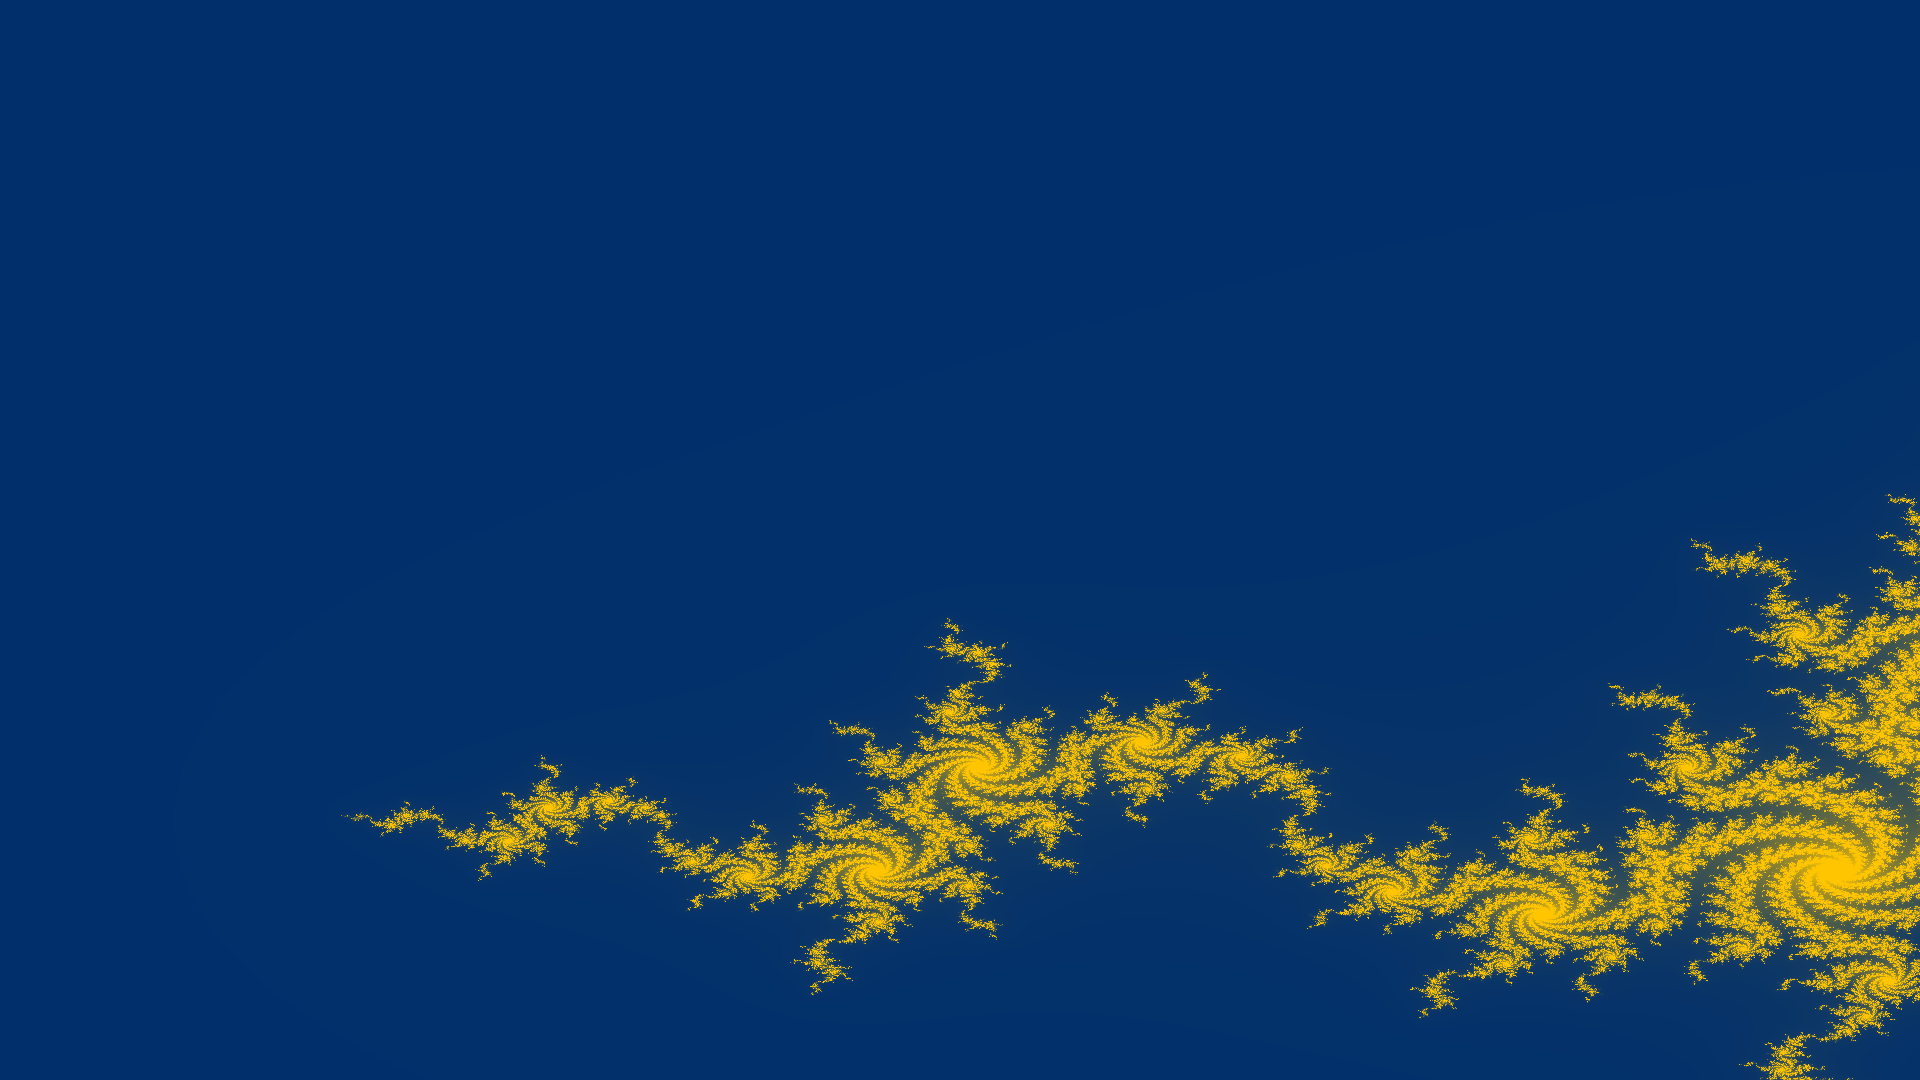
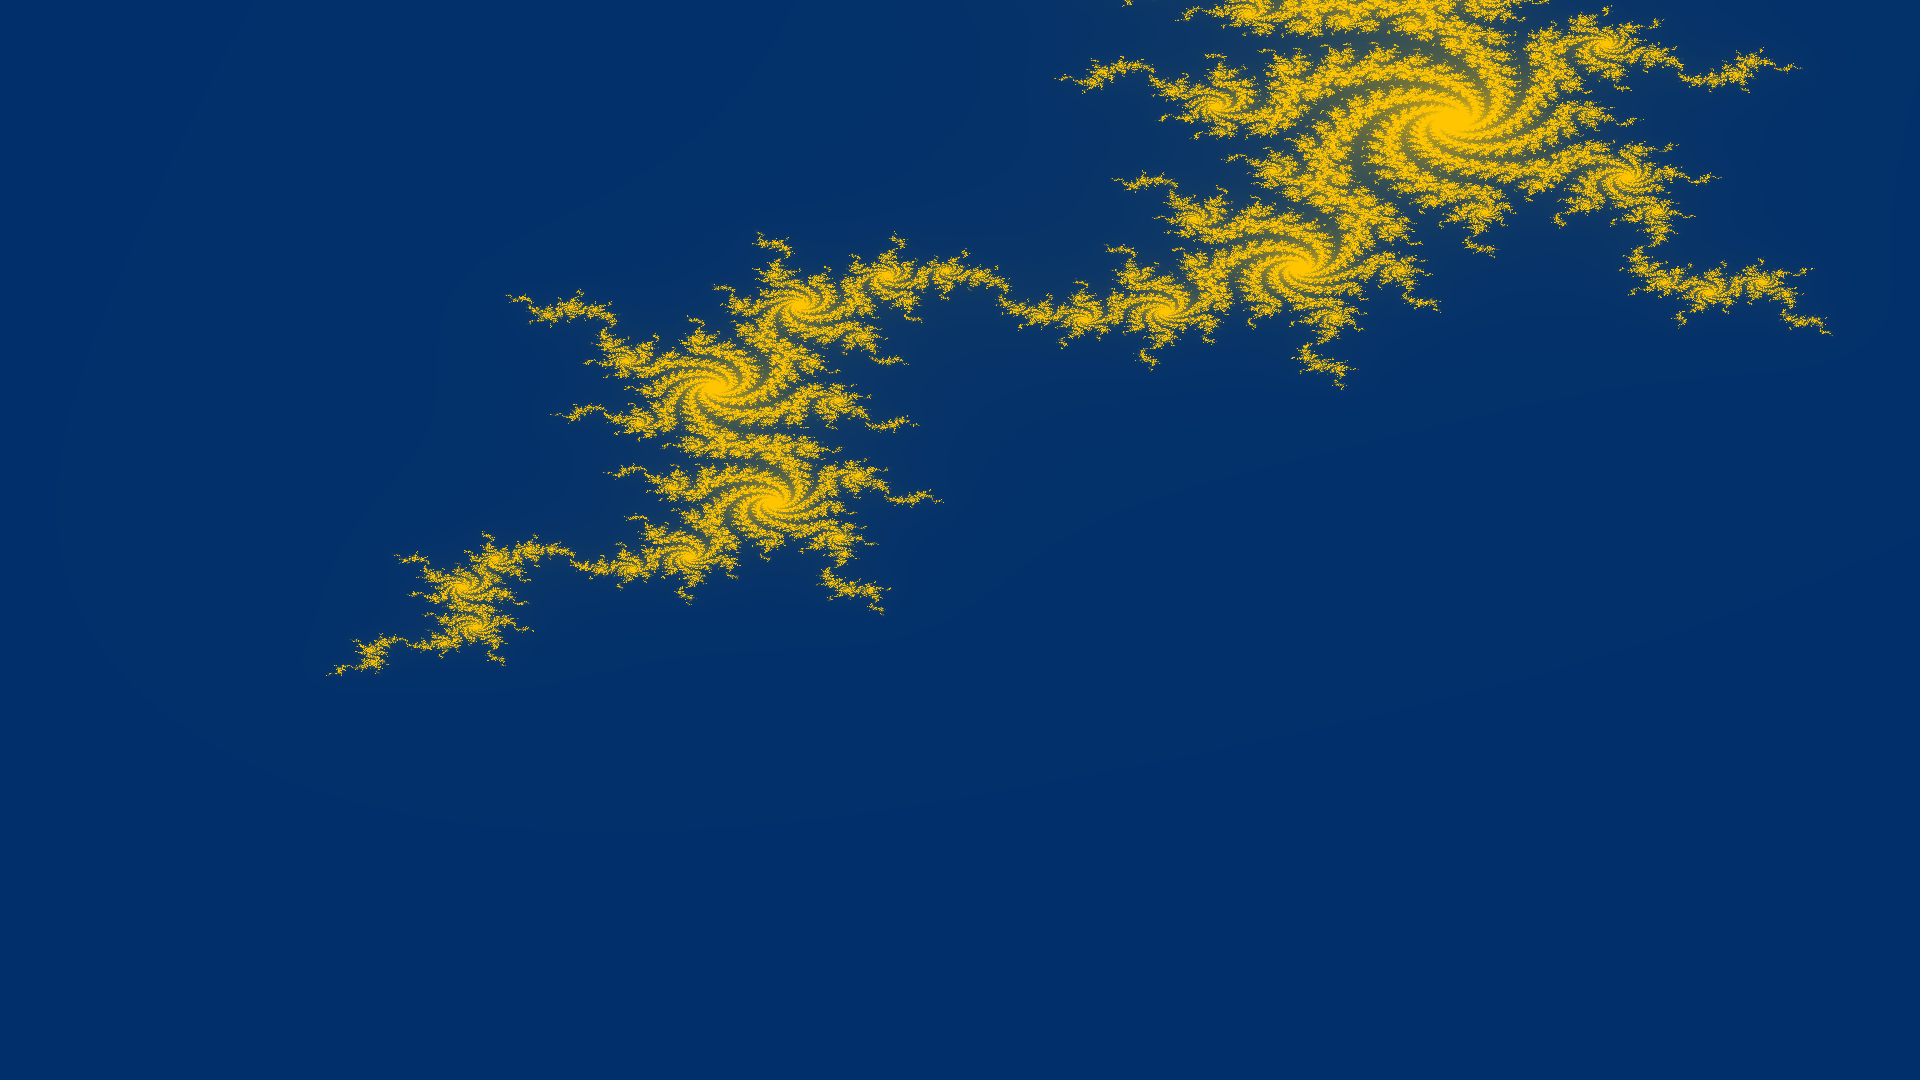
Implemented rotation.

diff --git a/src/functions.cpp b/src/functions.cpp
@@ -11,25 +11,35 @@
 #include "JuliaSet/functions.h"
 
 // Libraries being used
+#include <cmath>
+
+// Libraries being used
 using namespace std;
 using namespace cimg_library;
 
 /**
  * Returns the complex number at the given pixel on the image
  *
- * @param x      the x coord of the pixel
- * @param y      the y coord of the pixel
- * @param imgx   the width of the image
- * @param imgy   the height of the image
- * @param zoom   the zoom scale
- * @param offset the complex offset
+ * @param x    the x coord of the pixel
+ * @param y    the y coord of the pixel
+ * @param imgx the width of the image
+ * @param imgy the height of the image
+ * @param zoom the zoom scale
+ * @param off  the complex offset
+ * @param rot  the degrees of rotation of the image
  *
  * @return the complex number at the given pixel on the image
  */
-std::complex<double> getComplex(const double& x, const double& y, const double& imgx, const double& imgy, const double& zoom, const std::complex<double>& offset)
+std::complex<double> getComplex(
+	const double& x, 
+	const double& y, 
+	const double& imgx, 
+	const double& imgy, 
+	const double& zoom, 
+	const complex<double>& off, 
+	const double& rot)
 {
-	// Return complex value
-	return (SCALE * complex<double>(x / imgx, y / imgy) - SHIFT) / zoom + offset;
+	return (SCALE * complex<double>(x / imgx, y / imgy) - SHIFT) * polar(1.0, rot / 180 * M_PI) / zoom + off;
 }
 
 /**
@@ -62,15 +72,22 @@ int juliaSetAlgorithm(std::complex<double>& z, const std::complex<double>& c)
 /**
  * Generates a Juliaset Image in the given object with the given complex constant
  *
- * @param image  the image object to generate the Juliaset in
- * @param c      the complex constant being used
- * @param zoom   the zoom scale
- * @param offset the complex offset
- * @param map    the colormap being used
+ * @param image the image object to generate the Juliaset in
+ * @param c     the complex constant being used
+ * @param zoom  the zoom scale
+ * @param off   the complex offset
+ * @param rot   the degrees of rotation of the image
+ * @param map   the colormap being used
  *
  * @return total number of iterations that were calculated
  */
-int generateJuliasetImage(cimg_library::CImg<char>& image, const std::complex<double>& c, const double& zoom, const std::complex<double>& offset, const ColorMapRGB* map)
+int generateJuliasetImage(
+	CImg<char>& image, 
+	const complex<double>& c, 
+	const double& zoom, 
+	const complex<double>& off, 
+	const double& rot,
+	const ColorMapRGB* map)
 {
 	// Image dimensions
 	int imgx = image.width(), imgy = image.height();
@@ -84,9 +101,9 @@ int generateJuliasetImage(cimg_library::CImg<char>& image, const std::complex<do
 	cimg_forXY(image, x, y) 
 	{
 		// Compute JuliaSet map at pixel location
-		z      = getComplex(x, y, imgx, imgy, zoom, offset); // Complex number z at pixel
-		result = juliaSetAlgorithm(z, c);            	     // Julia set algorithm
-		color  = map->color(result);		         		 // Compute color map
+		z      = getComplex(x, y, imgx, imgy, zoom, off, rot); // Complex number z at pixel
+		result = juliaSetAlgorithm(z, c);            	       // Julia set algorithm
+		color  = map->color(result);		         		   // Compute color map
 		
 		// Set Color
 		image(x, y, 0) = color.red;

diff --git a/include/JuliaSet/functions.h b/include/JuliaSet/functions.h
@@ -30,16 +30,24 @@ const std::complex<double> SHIFT(2.0, 2.0);
 /**
  * Returns the complex number at the given pixel on the image
  *
- * @param x      the x coord of the pixel
- * @param y      the y coord of the pixel
- * @param imgx   the width of the image
- * @param imgy   the height of the image
- * @param zoom   the zoom scale
- * @param offset the complex offset
+ * @param x    the x coord of the pixel
+ * @param y    the y coord of the pixel
+ * @param imgx the width of the image
+ * @param imgy the height of the image
+ * @param zoom the zoom scale
+ * @param off  the complex offset
+ * @param rot  the degrees of rotation of the image
  *
  * @return the complex number at the given pixel on the image
  */
-std::complex<double> getComplex(const double& x, const double& y, const double& imgx, const double& imgy, const double& zoom, const std::complex<double>& offset);
+std::complex<double> getComplex(
+	const double& x, 
+	const double& y, 
+	const double& imgx, 
+	const double& imgy, 
+	const double& zoom, 
+	const std::complex<double>& off, 
+	const double& rot);
 
 /**
  * Computes the JuliaSet algorithm of the given complex numbers
@@ -54,14 +62,21 @@ int juliaSetAlgorithm(std::complex<double>& z, const std::complex<double>& c);
 /**
  * Generates a Juliaset Image in the given object with the given complex constant
  *
- * @param image  the image object to generate the Juliaset in
- * @param c      the complex constant being used
- * @param zoom   the zoom scale
- * @param offset the complex offset
- * @param map    the colormap being used
+ * @param image the image object to generate the Juliaset in
+ * @param c     the complex constant being used
+ * @param zoom  the zoom scale
+ * @param off   the complex offset
+ * @param rot   the degrees of rotation of the image
+ * @param map   the colormap being used
  *
  * @return total number of iterations that were calculated
  */
-int generateJuliasetImage(cimg_library::CImg<char>& image, const std::complex<double>& c, const double& zoom, const std::complex<double>& offset, const ColorMapRGB* map);
+int generateJuliasetImage(
+	cimg_library::CImg<char>& image, 
+	const std::complex<double>& c, 
+	const double& zoom, 
+	const std::complex<double>& off, 
+	const double& rot,
+	const ColorMapRGB* map);
 
 #endif

diff --git a/src/main.cpp b/src/main.cpp
@@ -54,12 +54,13 @@ int main(int argc, char const *argv[])
 	double zoom = argc > 5 ? atof(argv[5]) : 1.0; // Zoom
 	double offx = argc > 6 ? atof(argv[6]) : 0.0; // Offset x
 	double offy = argc > 7 ? atof(argv[7]) : 0.0; // Offset y
+	double rot  = argc > 8 ? atof(argv[8]) : 0.0; // Rotation
 
 	// -----------------------------CONSTANTS-----------------------------
 
 	// Complex values
 	const complex<double> c(real, imag); 	  // Constant
-	const complex<double> offset(offx, offy); // Offset
+	const complex<double> off(offx, offy); // Offset
 
 	// Image (with 3 color channels)
 	CImg<char> jimage(img_x, img_y, 1, 3);
@@ -73,7 +74,7 @@ int main(int argc, char const *argv[])
 	double time = clock();
 
 	// Generate julia set image
-	int iter = generateJuliasetImage(jimage, c, zoom, offset, &BLUE_TO_YELLOW);
+	int iter = generateJuliasetImage(jimage, c, zoom, off, rot, &BLUE_TO_YELLOW);
 
 	// End clock
 	time = (clock() - time) / CLOCKS_PER_SEC;
